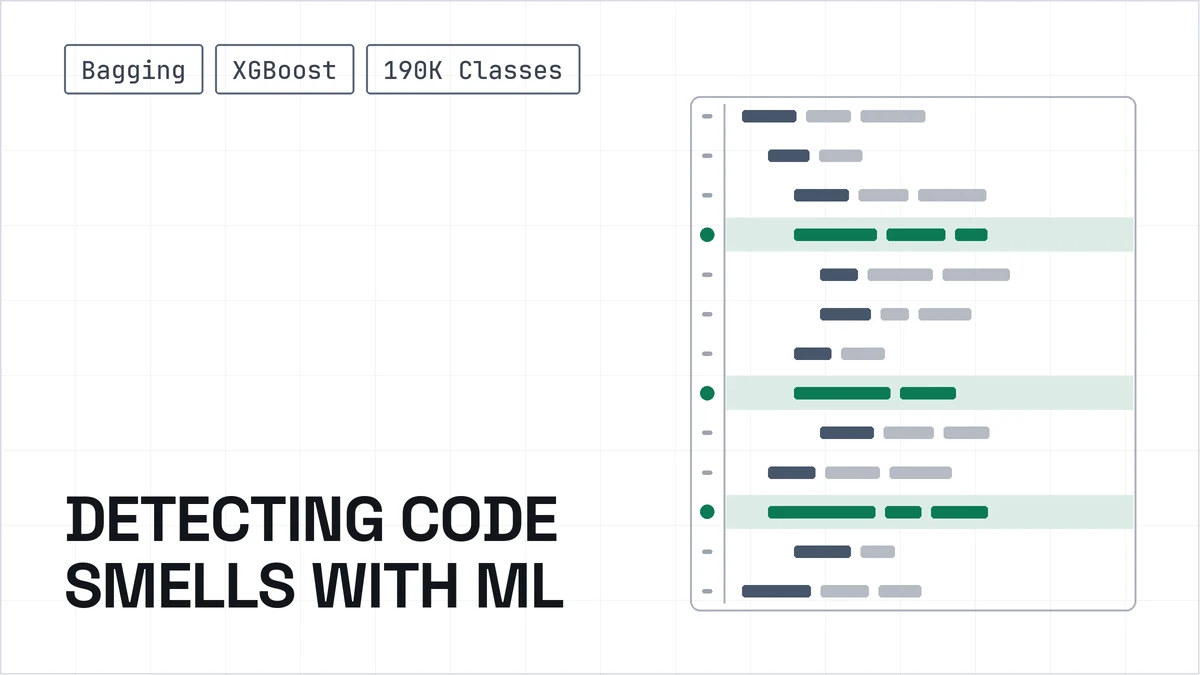
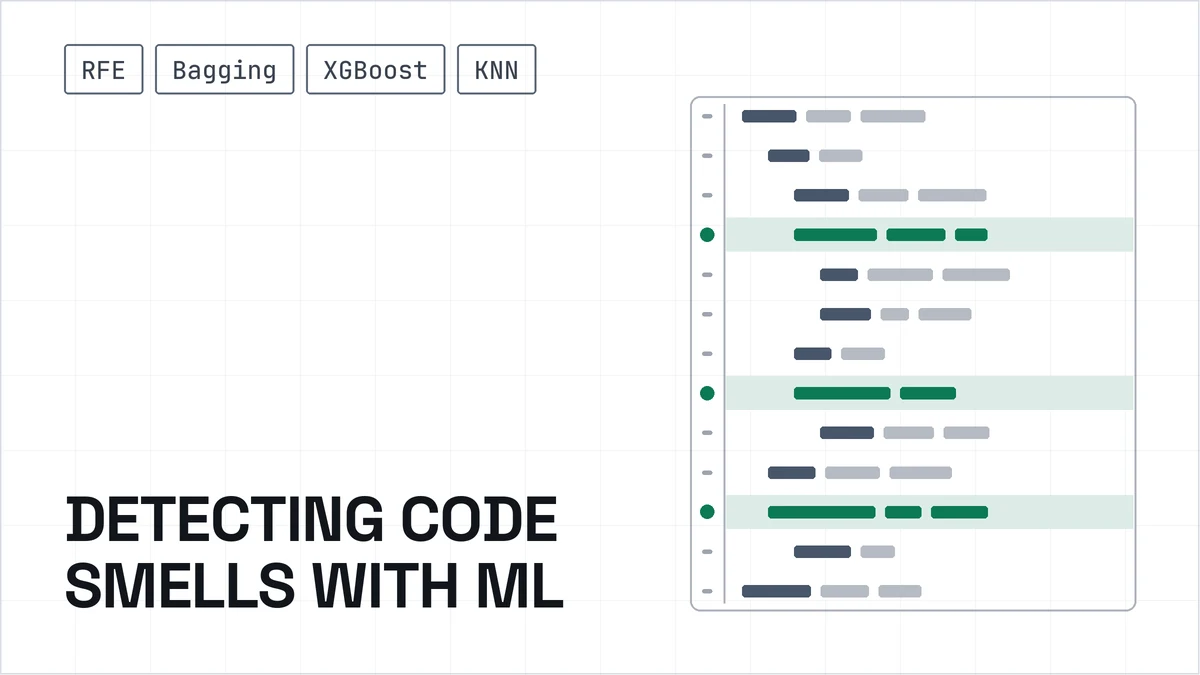
Update project chips and Pima bullets; add report and GitHub links

Changed region(s): [[0.0617, 0.0622, 0.4933, 0.1556]]

diff --git a/pages/projects.html b/pages/projects.html
@@ -75,7 +75,7 @@
             <a class="map-group-head" href="#ai-ml">ML &amp; Deep Learning <span>6</span></a>
             <div class="map-tiles">
               <a class="map-tile" href="#p-clinical-risk-modeling" data-tip="Clinical Risk Modeling &amp; Unsupervised Structure Analysis">
-                <img src="/assets/project-thumbnails/light/clinical-risk-modeling.webp?v=3" srcset="/assets/project-thumbnails/light/clinical-risk-modeling-600.webp?v=3 600w, /assets/project-thumbnails/light/clinical-risk-modeling.webp?v=3 1200w" sizes="(max-width: 560px) 45vw, 200px" alt="Clinical Risk Modeling &amp; Unsupervised Structure Analysis" loading="lazy" />
+                <img src="/assets/project-thumbnails/light/clinical-risk-modeling.webp?v=7" srcset="/assets/project-thumbnails/light/clinical-risk-modeling-600.webp?v=7 600w, /assets/project-thumbnails/light/clinical-risk-modeling.webp?v=7 1200w" sizes="(max-width: 560px) 45vw, 200px" alt="Clinical Risk Modeling &amp; Unsupervised Structure Analysis" loading="lazy" />
               </a>
               <a class="map-tile" href="#p-wound-classification" data-tip="Deep Learning-Based Wound Classification">
                 <img src="/assets/project-thumbnails/light/wound-classification.webp?v=3" srcset="/assets/project-thumbnails/light/wound-classification-600.webp?v=3 600w, /assets/project-thumbnails/light/wound-classification.webp?v=3 1200w" sizes="(max-width: 560px) 45vw, 200px" alt="Deep Learning-Based Wound Classification" loading="lazy" />
@@ -90,7 +90,7 @@
                 <img src="/assets/project-thumbnails/light/movie-recommender.webp?v=2" srcset="/assets/project-thumbnails/light/movie-recommender-600.webp?v=2 600w, /assets/project-thumbnails/light/movie-recommender.webp?v=2 1200w" sizes="(max-width: 560px) 45vw, 200px" alt="Hybrid Recommendation System" loading="lazy" />
               </a>
               <a class="map-tile" href="#p-code-smell-detection" data-tip="ML-Enabled Code Smell Detection System">
-                <img src="/assets/project-thumbnails/light/code-smell-detection.webp?v=3" srcset="/assets/project-thumbnails/light/code-smell-detection-600.webp?v=3 600w, /assets/project-thumbnails/light/code-smell-detection.webp?v=3 1200w" sizes="(max-width: 560px) 45vw, 200px" alt="ML-Enabled Code Smell Detection System" loading="lazy" />
+                <img src="/assets/project-thumbnails/light/code-smell-detection.webp?v=5" srcset="/assets/project-thumbnails/light/code-smell-detection-600.webp?v=5 600w, /assets/project-thumbnails/light/code-smell-detection.webp?v=5 1200w" sizes="(max-width: 560px) 45vw, 200px" alt="ML-Enabled Code Smell Detection System" loading="lazy" />
               </a>
             </div>
           </div>
@@ -155,16 +155,19 @@
         <div class="project-list">
           <article class="project has-media" id="p-clinical-risk-modeling">
             <span class="project-thumb">
-              <img src="/assets/project-thumbnails/light/clinical-risk-modeling.webp?v=3" srcset="/assets/project-thumbnails/light/clinical-risk-modeling-600.webp?v=3 600w, /assets/project-thumbnails/light/clinical-risk-modeling.webp?v=3 1200w" sizes="(max-width: 900px) calc(100vw - 32px), 380px" alt="" loading="lazy" />
+              <img src="/assets/project-thumbnails/light/clinical-risk-modeling.webp?v=7" srcset="/assets/project-thumbnails/light/clinical-risk-modeling-600.webp?v=7 600w, /assets/project-thumbnails/light/clinical-risk-modeling.webp?v=7 1200w" sizes="(max-width: 900px) calc(100vw - 32px), 380px" alt="" loading="lazy" />
             </span>
             <div>
               <h3>Clinical Risk Modeling & Unsupervised Structure Analysis</h3>
               <ul class="detail-list">
-                <li>Profiled the dataset for encoded missing values and outliers, then imputed by <strong>group-wise median</strong> before modeling.</li>
-                <li>Fit <strong>logistic regression</strong> on labelled outcomes and <strong>k-means</strong> with labels withheld, running both on raw and standardized inputs.</li>
-                <li>Evaluated clustering with <strong>elbow and silhouette</strong> diagnostics, then inspected structure through <strong>PCA and t-SNE</strong> projections.</li>
+                <li>Recovered <strong>652 hidden missing readings</strong> (up to <strong>49%</strong> of one measurement), imputing inside the pipeline so no label leaks.</li>
+                <li>Showed <strong>four model families</strong> tied within noise (<strong>0.86 ROC AUC</strong>), then tuned the threshold to catch <strong>83%</strong> of held-out cases.</li>
+                <li>Caught a clustering that scored <strong>3.7&times; better</strong> on silhouette yet matched the diagnosis no better than chance.</li>
               </ul>
               <p class="project-tools">Python, NumPy, Pandas, Matplotlib, Seaborn, Scikit-learn</p>
+              <a class="project-link" href="https://f-a-tonmoy.github.io/pima-diabetes-analysis/" target="_blank" rel="noopener">Interactive report</a>
+              <span class="project-link-sep" aria-hidden="true">|</span>
+              <a class="project-link" href="https://github.com/f-a-tonmoy/pima-diabetes-analysis" target="_blank" rel="noopener">GitHub</a>
             </div>
           </article>
           <article class="project has-media" id="p-wound-classification">
@@ -229,7 +232,7 @@
           </article>
           <article class="project has-media" id="p-code-smell-detection">
             <span class="project-thumb">
-              <img src="/assets/project-thumbnails/light/code-smell-detection.webp?v=3" srcset="/assets/project-thumbnails/light/code-smell-detection-600.webp?v=3 600w, /assets/project-thumbnails/light/code-smell-detection.webp?v=3 1200w" sizes="(max-width: 900px) calc(100vw - 32px), 380px" alt="" loading="lazy" />
+              <img src="/assets/project-thumbnails/light/code-smell-detection.webp?v=5" srcset="/assets/project-thumbnails/light/code-smell-detection-600.webp?v=5 600w, /assets/project-thumbnails/light/code-smell-detection.webp?v=5 1200w" sizes="(max-width: 900px) calc(100vw - 32px), 380px" alt="" loading="lazy" />
             </span>
             <div>
               <h3>ML-Enabled Code Smell Detection System</h3>
